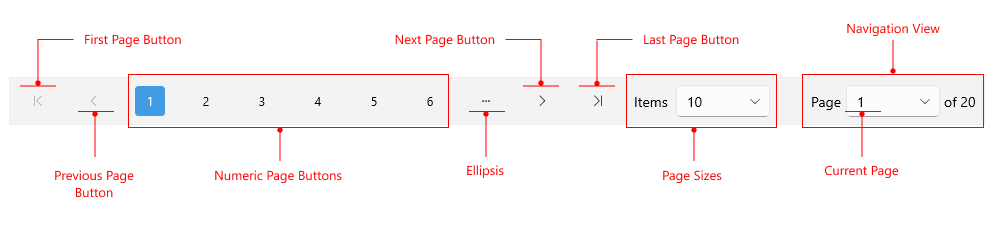
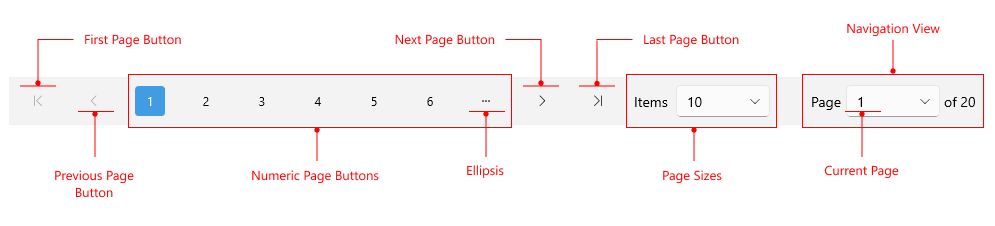
address comments for datapager

diff --git a/controls/datapager/visual-structure.md b/controls/datapager/visual-structure.md
@@ -19,16 +19,19 @@ The following image shows the anatomy of the DataPager.
 - `First Page Button`&mdash;Represents the first page button. This button brings the pager on the first page of data.
 - `Previous Page Button`&mdash;Represents the previous page button. This button decrements the DataPager's current page index and brings it on the previous page of data.
 - `Numeric Page Buttons`&mdash;Represents a set of buttons that lists the available pages and allows the user to go directly to the desired one.
-- `Ellipsis`&mdash;Represents ellipsis. The ellipsis appears when the pages are more than the rendered numeric buttons.
+- `Ellipsis`&mdash;The first and the last numeric buttons can display ellipsis instead of numbers when the pages are more than the rendered numeric buttons.
 - `Next Page Button`&mdash;Represents the next page button. This button increments the DataPager's current page index and brings it on the next page of data.
 - `Last Page Button`&mdash;Represents the last page button. This button brings the DataPager on the last page of data.
-- `Page Sizes`&mdash;This area represents thepages the end user can choose from.
+- `Page Sizes`&mdash;This area represents the available page sizes (items per page) that the end-user can choose from.
 - `Current Page`&mdash;Indicates the current page.
 - `Navigation View`&mdash;This area allows the user to see the current page and the total count of pages. It also allows the user to select the desired page and navigate directly to it.
 
-The elements are displayed based on the available space. On mobile the default elements displayed in the DataPager are the `First Page Button`, `Previous Page Button`, `Navigation View with the RadComboBox` , `Next Page Button` and `Last Page Button`.
+The elements are visualized based on the available space. For example, if the user starts resizing the screen to reduce/exceed the DataPager's width, the elements inside the DataPager will be removed/added. 
 
-![.NET MAUI DataPager Mobile Visual Structure](images/datapager-mobile-representation.png "Visual elements of DataPager control on mobile")
+The image below is from android device and it shows the elements displayed in the DataPager based on the availabe space. 
+The displayed elements are the `First Page Button`, `Previous Page Button`, `NavigationComboBox` , `Next Page Button` and `Last Page Button`.
+
+![.NET MAUI DataPager Mobile](images/datapager-mobile-representation.png)
 
 ## See Also
 

diff --git a/installation/vs-code-integration/new-project-wizard.md b/installation/vs-code-integration/new-project-wizard.md
@@ -20,12 +20,27 @@ To use the **Telerik UI for .NET MAUI Template Wizard**, install the `Telerik UI
 
 ## Start the Wizard
 
-You can create a Telerik .NET MAUI project by accessing the project template feature from the Visual Studio Code Extensions menu. To open the menu, use:
+Start the Telerik UI for .NET MAUI Template Wizard by using the following ways:
 
- - `Ctrl+Shift+P` on Windows/Linux 
- - `Cmd+Shift+P` on Mac. 
+* Press the **Telerik Extensions Information** icon in the Visual Studio Code activity bar.
 
-Next, select **Telerik UI for .NET MAUI Template Wizard: Launch** from the menu and press **Enter**. 
+1. Click on the **Telerik Extensions Information** icon
+1. Select **MAUI** tab
+1. Press **Create New Project**.
+1. The **Telerik UI for .NET MAUI Template Wizard** opens
+1. Using the Template Wizard you can create a new **Blank App** or **Blank Shell App**.
+
+![Telerik UI for .NET MAUI VS Code Extension](images/telerik-vs-code-extension.png)
+
+* From the Visual Studio Code Extensions menu
+
+1. To open the menu, use:
+ - `Ctrl+Shift+P` on Windows/Linux
+ - `Cmd+Shift+P` on Mac.
+
+1. Select **Telerik UI for .NET MAUI Template Wizard: Launch** from the menu and press **Enter**. 
+1. The **Telerik UI for .NET MAUI Template Wizard** opens
+1. Using the Template Wizard you can create a new **Blank App** or **Blank Shell App**.
 
 ![Telerik UI for .NET MAUI VS Code snippets](images/MauiTemplateWizard.gif)
 

diff --git a/controls/datapager/data-binding.md b/controls/datapager/data-binding.md
@@ -32,12 +32,12 @@ this.BindingContext = new ViewModel();
 
 Often, your collection will be a simple `List`, an `ObservableCollection`, or a collection that inherits from `IEnumerable`. Unless you had paging in mind when you designed your project, it is almost certain that your data source will not be pageable out of the box. In these scenarios, bind to the `PagedSource` (`IEnumerable`) property of the `RadDataPager`.
 
-![DataPager PagedSource](images/)
+![DataPager PagedSource](images/datapager-databinding.png)
 
 The image above illustrates the process for binding to the `PagedSource` property of the DataPager:
 
-1. You assign an `IEnumerable` to the `Source` of a `RadDataPager`.
-1. The `RadDataPager` wraps the `Source` in a `PageableCollection`.
+1. You assign an `object` to the `Source` of a `RadDataPager`.
+1. The `RadDataPager` wraps the `Source` in a custom collection.
 1. The `Source` is exposed through the `RadDataPager.PagedSource` property.
 1. You attach any number of item controls to the `PagedSource` and they are paged automatically.
 

diff --git a/controls/datapager/commands.md b/controls/datapager/commands.md
@@ -13,11 +13,11 @@ The Telerik UI for .NET MAUI DataPager provides commands used to navigate throug
 
 The available commands are:
 
-* `NavigateToPageCommand` (`ICommand`)&mdash;Specifies the command which executes when pressing a numeric button.
 * `NavigateToFirstPageCommand` (`ICommand`)&mdash;Specifies the command which executes when pressing the first page button.
-* `NavigateToLastPageCommand` (`ICommand`)&mdash;Specifies the command which executes when pressing the last page button.
 * `NavigateToPreviousPageCommand` (`ICommand`)&mdash;Specifies the command which executes when pressing the previous page button.
+* `NavigateToPageCommand` (`ICommand`)&mdash;Specifies the command which executes when pressing a numeric button.
 * `NavigateToNextPageCommand` (`ICommand`)&mdash;Specifies the command which executes when pressing the next page button.
+* `NavigateToLastPageCommand` (`ICommand`)&mdash;Specifies the command which executes when pressing the last page button.
 
 ## Additional Resources
 

diff --git a/controls/datapager/styling/buttons.md b/controls/datapager/styling/buttons.md
@@ -34,18 +34,6 @@ The `DataPagerButton` inherits from `RadTemplatedButton`. Set the properties des
 s
 The `DataPagerButton` exposes additional visual states&mdash;`Selected` and `SelectedDisabled`. Review the [TemplatedButton Visual States]({%slug templatedbutton-visual-states%}) article to check what are the other states you can set to the navigation buttons.
 
-## Tooltips
-
-The DataPager has tooltips support for the navigation buttons on WInUI.You can customize the text in the tooltip by using the styling properties described above.
-
-Here is an example how to set `Tooltip.Text` property:
-
-```XAML
-<Style x:Key="DataPagerButtonStyle" TargetType="telerik:DataPagerButton">
-    <Setter Property="ToolTipProperties.Text" Value="your custom text" />
-</Style>
-```
-
 ## Example
 
 Here is an example how to style the buttons in the DataPager control.

diff --git a/controls/datapager/integration/datagrid.md b/controls/datapager/integration/datagrid.md
@@ -10,11 +10,11 @@ slug: datapager-datagrid
 
 You can page the data of the [Telerik UI for .NET MAUI DataGrid]({%slug datagrid-overview%}) by using the DataPager control. However, the DataPager is independent of the DataGrid, and you can use it with any other `ItemsControl`.
 
-![.NET MAUI DataPager with DataGrid](images/datapager-datagrid-paging.png "DataPager with DataGrid")
+![.NET MAUI DataPager with DataGrid](../images/datapager-datagrid-paging.png)
 
->Currently, the DataPager does not support the Telerik UI for .NET MAUI DataGrid `LoadOnDemand` collection.
+>Currently, the DataPager does not support the Telerik UI for .NET MAUI DataGrid [`LoadOnDemandCollaction`]({%slug datagrid-features-loadondemand%}#loadOnDemand-collection).
 
-## Example 
+## Example
 
 Here is an example of how to use the DataPager with the DataGrid control.
 

diff --git a/controls/datapager/ellipsis-mode.md b/controls/datapager/ellipsis-mode.md
@@ -20,6 +20,10 @@ The available options for `EllipsisMode` are:
 * (Default) `After`&mdash; Display an ellipsis instead of the last numeric button.
 * `Both`&mdash;Display an ellipsis on both sides.
 
+The image below shows the ellipsis modes:
+
+![.NET MAUI DataPager Ellipsis mode](images/datapager-ellispsismode.png)
+
 ## Example
 
 Here is a quick example on how you can define the `EllipsisMode` in the DataPager.
@@ -38,7 +42,7 @@ xmlns:telerik="http://schemas.telerik.com/2022/xaml/maui"
 
 <snippet id='datapager-features-viewmodel' />
 
-This is the result on desktop:
+This is the result:
 
 ![.NET MAUI DataPager Ellipsis mode](images/datapager-ellispsismode.gif)
 

diff --git a/controls/datapager/page-configuration.md b/controls/datapager/page-configuration.md
@@ -35,7 +35,7 @@ To implement a page number range, use the following DataPager properties:
 
 ## Item Spacing
 
-You can specify the space between the items in the DataPager by setting the `ItemSpacing` (`double`) property. The default value is `0`.
+You can specify the space between the items in the DataPager by setting the `ItemSpacing` (`double`) property. The default value is `16`.
 
 ## Example
 

diff --git a/controls/datapager/styling/navigationview.md b/controls/datapager/styling/navigationview.md
@@ -41,7 +41,7 @@ Here is an example demonstrating how to use the `NavigationViewStyle` property.
 </Style>
 ```
 
-## Styling the Navigation ComboBox View
+## Styling the Navigation ComboBox
 
 To customize the appearance of the ComboBox view that allows the navigation to a specific page, use the `NavigationComboBoxStyle` (`Style` with target type of `telerik:RadComboBox`) property.
 

diff --git a/controls/datapager/overview.md b/controls/datapager/overview.md
@@ -10,7 +10,7 @@ slug: datapager-overview
 
 The Telerik UI for .NET MAUI DataPager provides users with a navigation interface for paging through any data collection. It supplies a paged data source to data-bound controls and is particularly useful when working with large datasets.
 
-
+![Telerik UI for .NET MAUI DataPager overview](images/datapager-overview.png)
 
 ## Key Features
 
